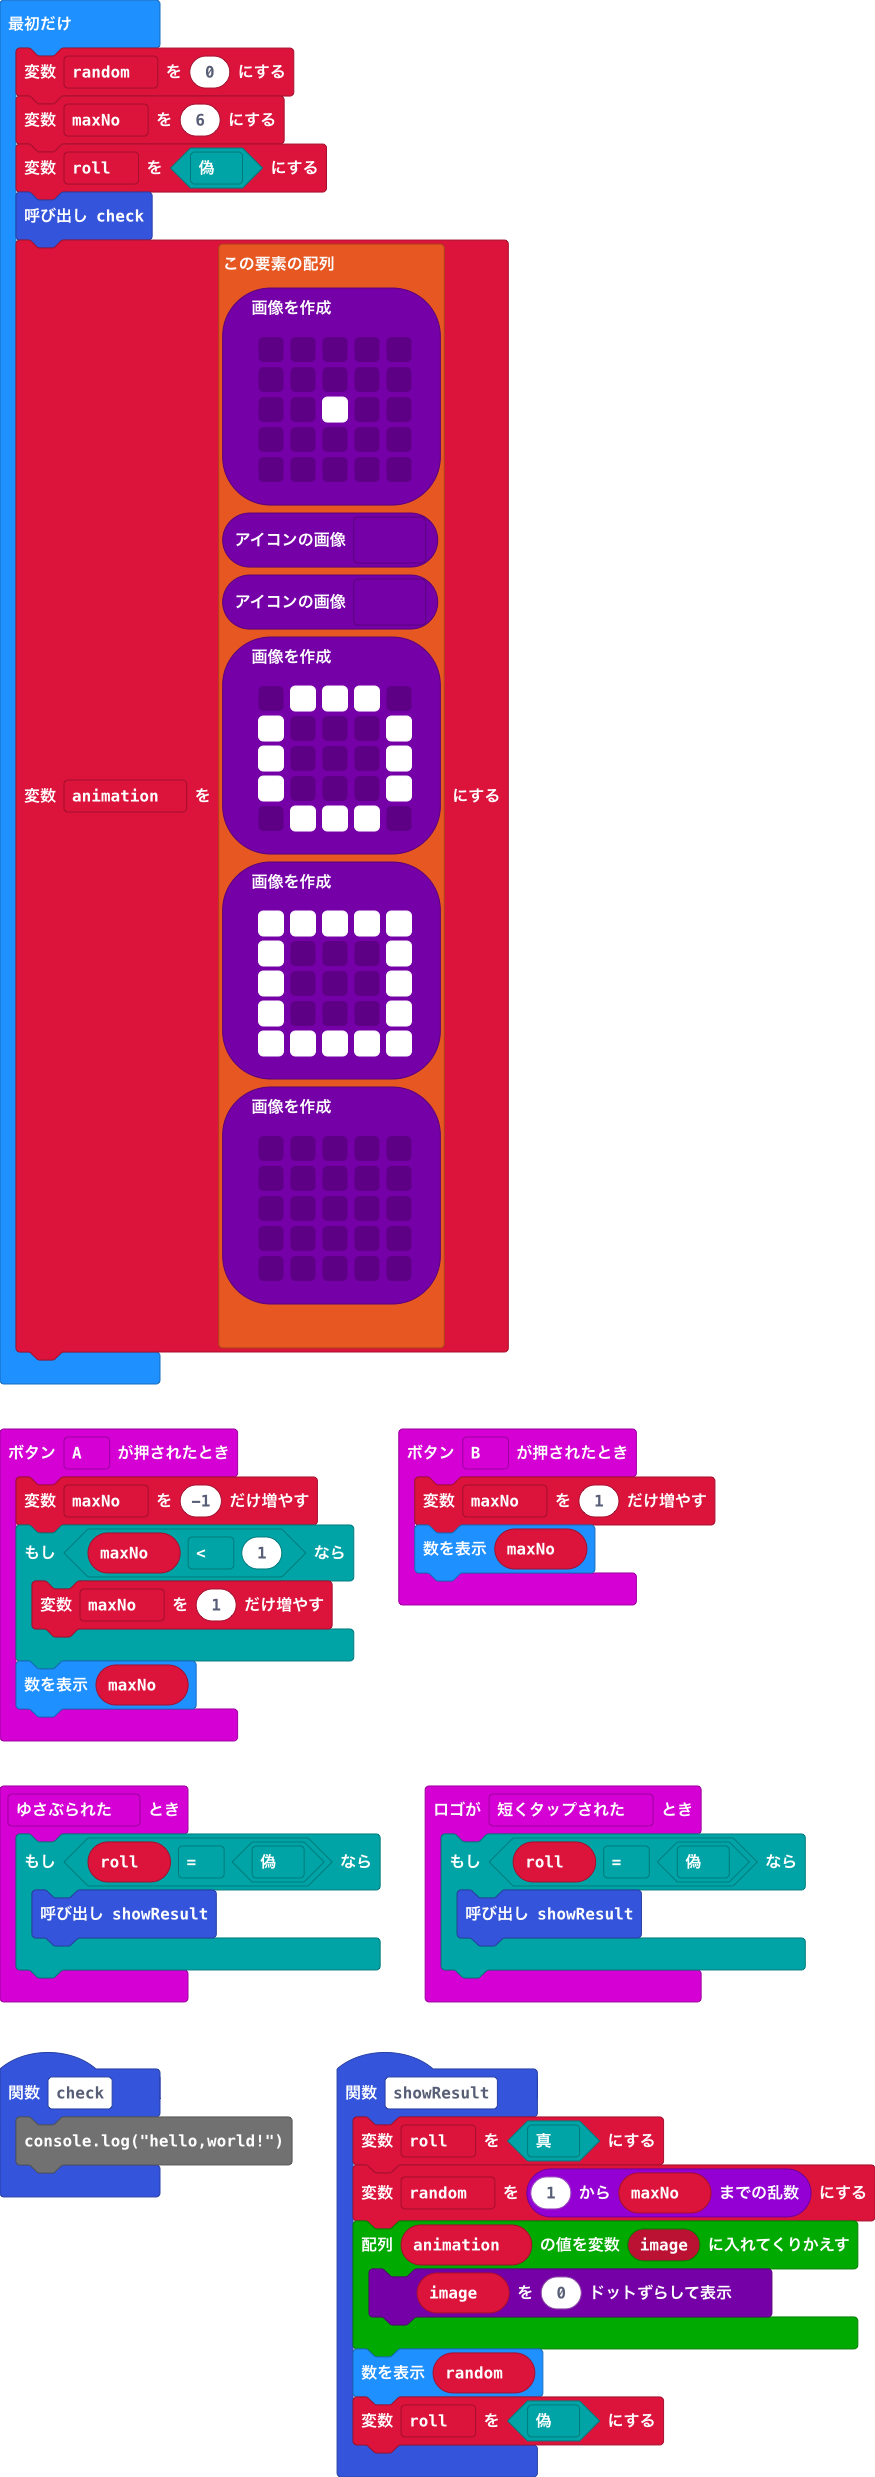
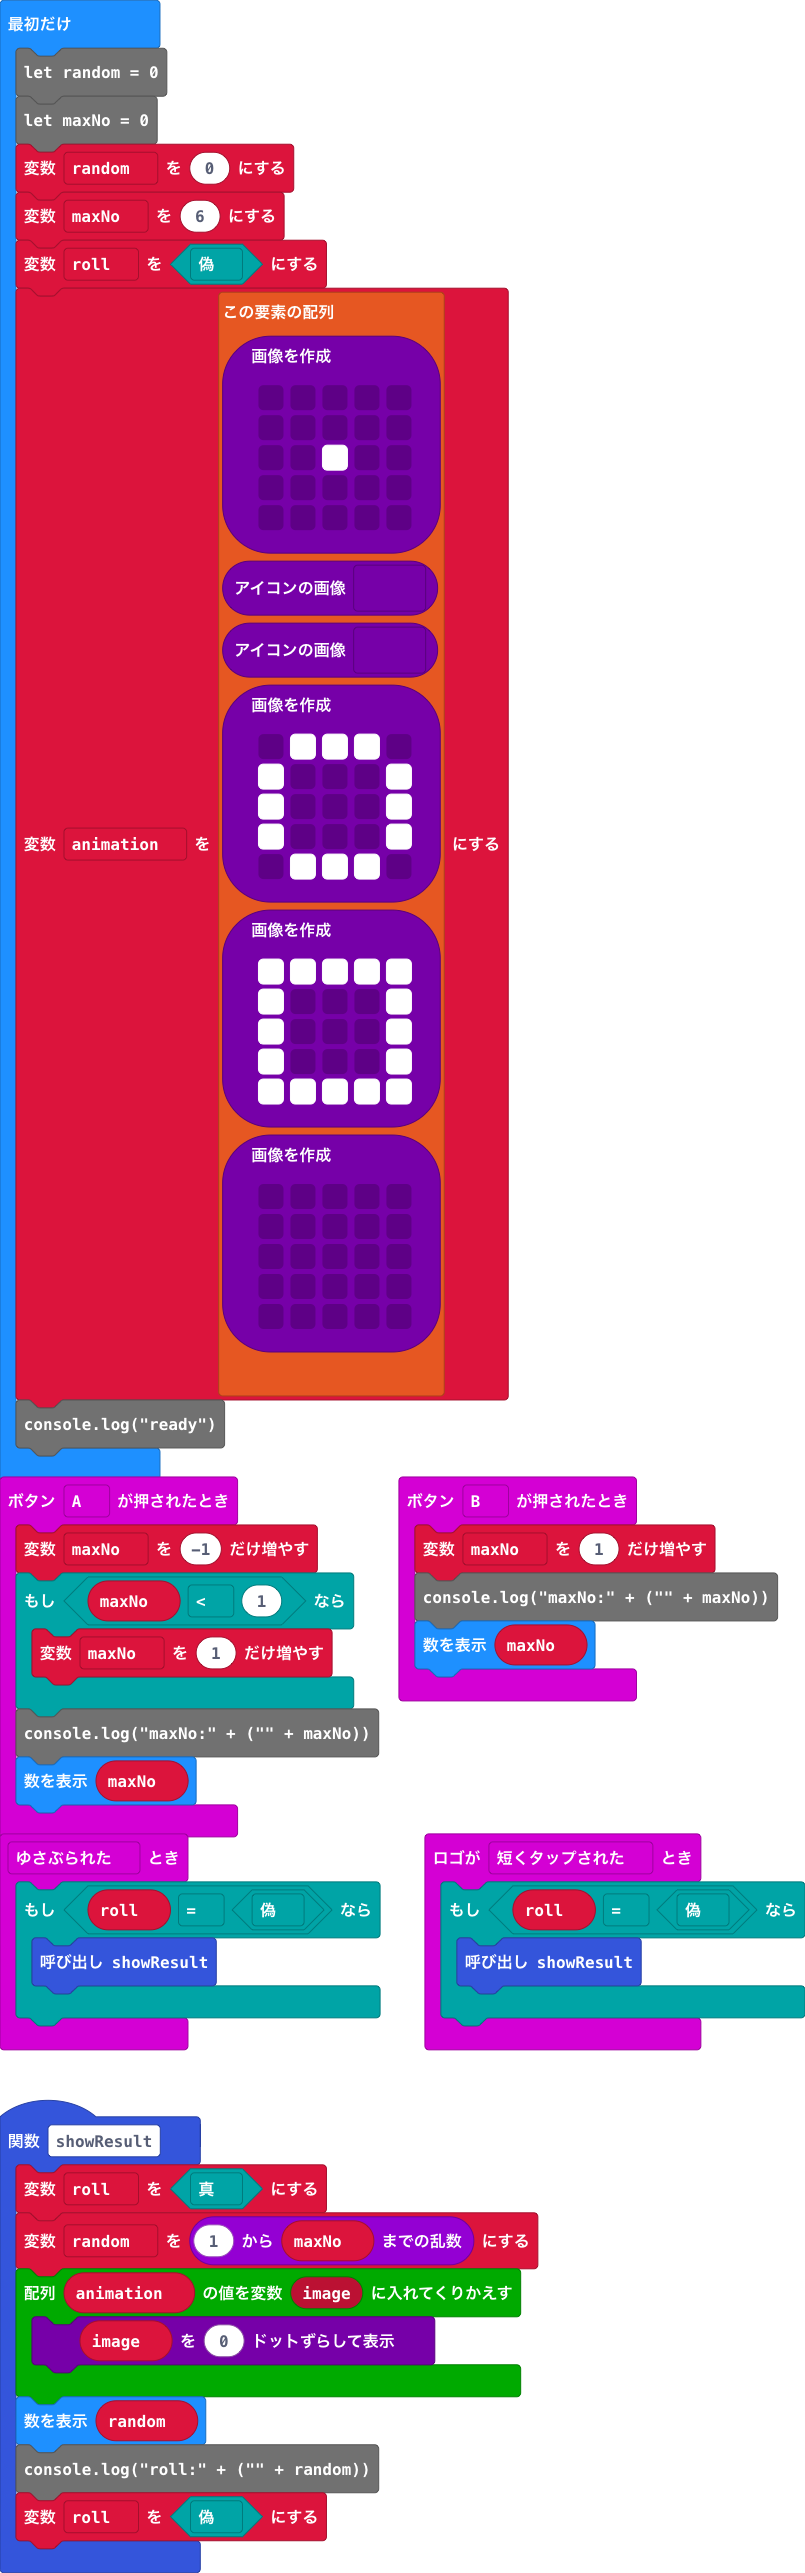
ログ出力強化

diff --git a/main.ts b/main.ts
@@ -1,73 +1,73 @@
-function check () {
-    console.log("hello,world!")
-}
-input.onButtonPressed(Button.A, function () {
+input.onButtonPressed(Button.A, function on_button_pressed_a() {
+    
     maxNo += -1
     if (maxNo < 1) {
         maxNo += 1
     }
+    
+    console.log("maxNo:" + ("" + ("" + maxNo)))
     basic.showNumber(maxNo)
 })
-input.onGesture(Gesture.Shake, function () {
+input.onGesture(Gesture.Shake, function on_gesture_shake() {
     if (roll == false) {
         showResult()
     }
+    
 })
-input.onButtonPressed(Button.B, function () {
+input.onButtonPressed(Button.B, function on_button_pressed_b() {
+    
     maxNo += 1
+    console.log("maxNo:" + ("" + ("" + maxNo)))
     basic.showNumber(maxNo)
 })
-function showResult () {
+function showResult() {
+    
     roll = true
     random = randint(1, maxNo)
     for (let image of animation) {
         image.showImage(0)
     }
     basic.showNumber(random)
+    console.log("roll:" + ("" + random))
     roll = false
 }
-input.onLogoEvent(TouchButtonEvent.Pressed, function () {
+
+input.onLogoEvent(TouchButtonEvent.Pressed, function on_logo_pressed() {
     if (roll == false) {
         showResult()
     }
+    
 })
-let animation: Image[] = []
+let animation : Image[] = []
 let roll = false
-let maxNo = 0
 let random = 0
+let maxNo = 0
 random = 0
 maxNo = 6
 roll = false
-check()
-animation = [
-images.createImage(`
-    . . . . .
-    . . . . .
-    . . # . .
-    . . . . .
-    . . . . .
-    `),
-images.iconImage(IconNames.SmallDiamond),
-images.iconImage(IconNames.Diamond),
-images.createImage(`
-    . # # # .
-    # . . . #
-    # . . . #
-    # . . . #
-    . # # # .
-    `),
-images.createImage(`
-    # # # # #
-    # . . . #
-    # . . . #
-    # . . . #
-    # # # # #
-    `),
-images.createImage(`
-    . . . . .
-    . . . . .
-    . . . . .
-    . . . . .
-    . . . . .
-    `)
-]
+animation = [images.createImage(`
+        . . . . .
+            . . . . .
+            . . # . .
+            . . . . .
+            . . . . .
+    `), images.iconImage(IconNames.SmallDiamond), images.iconImage(IconNames.Diamond), images.createImage(`
+        . # # # .
+            # . . . #
+            # . . . #
+            # . . . #
+            . # # # .
+    `), images.createImage(`
+        # # # # #
+            # . . . #
+            # . . . #
+            # . . . #
+            # # # # #
+    `), images.createImage(`
+        . . . . .
+            . . . . .
+            . . . . .
+            . . . . .
+            . . . . .
+    `)]
+console.log("ready")

diff --git a/main.py b/main.py
@@ -1,11 +1,9 @@
-def check():
-    print("hello,world!")
-
 def on_button_pressed_a():
     global maxNo
     maxNo += -1
     if maxNo < 1:
         maxNo += 1
+    print("maxNo:" + ("" + str(maxNo)))
     basic.show_number(maxNo)
 input.on_button_pressed(Button.A, on_button_pressed_a)
 
@@ -17,6 +15,7 @@ input.on_gesture(Gesture.SHAKE, on_gesture_shake)
 def on_button_pressed_b():
     global maxNo
     maxNo += 1
+    print("maxNo:" + ("" + str(maxNo)))
     basic.show_number(maxNo)
 input.on_button_pressed(Button.B, on_button_pressed_b)
 
@@ -27,6 +26,7 @@ def showResult():
     for image in animation:
         image.show_image(0)
     basic.show_number(random)
+    print("roll:" + str(random))
     roll = False
 
 def on_logo_pressed():
@@ -36,12 +36,11 @@ input.on_logo_event(TouchButtonEvent.PRESSED, on_logo_pressed)
 
 animation: List[Image] = []
 roll = False
-maxNo = 0
 random = 0
+maxNo = 0
 random = 0
 maxNo = 6
 roll = False
-check()
 animation = [images.create_image("""
         . . . . .
             . . . . .
@@ -72,3 +71,4 @@ animation = [images.create_image("""
             . . . . .
             . . . . .
     """)]
+print("ready")
